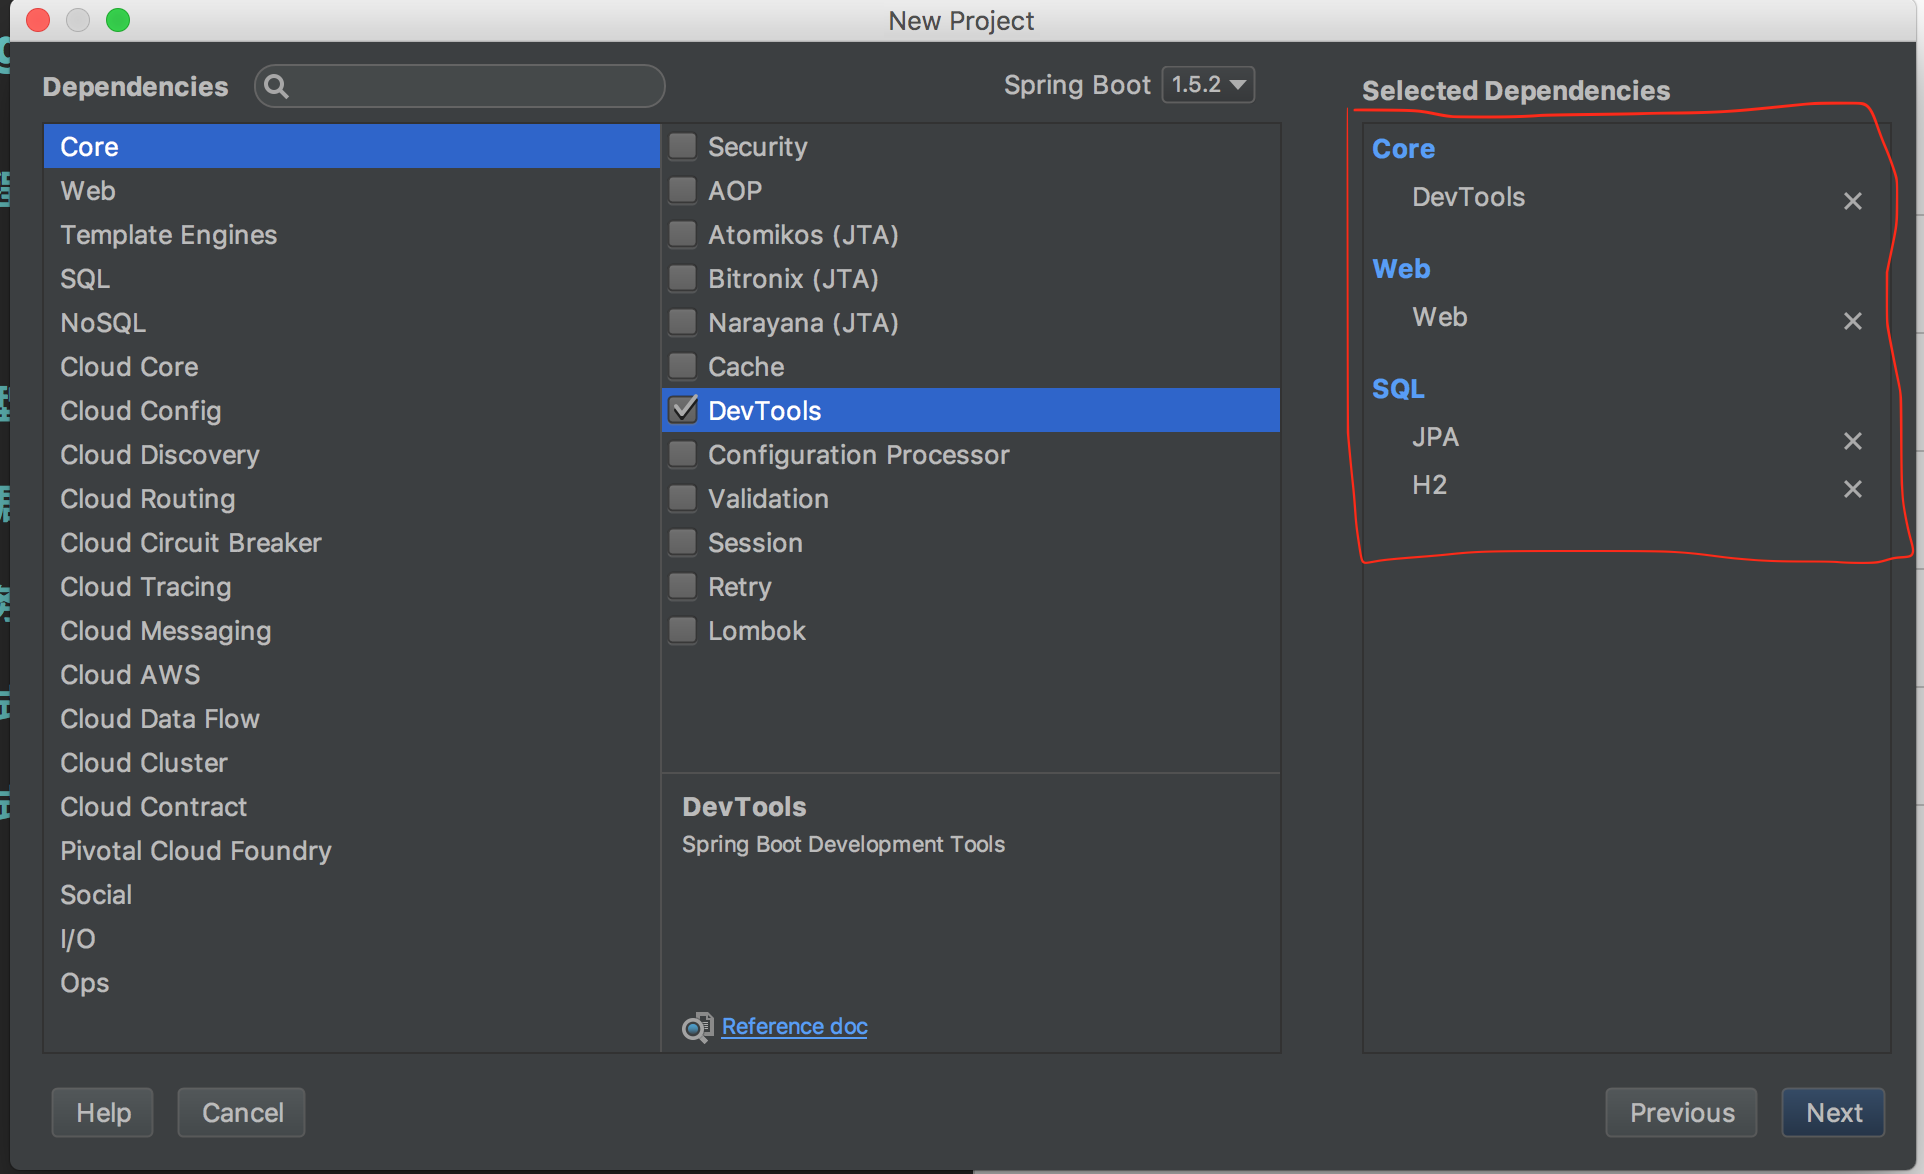
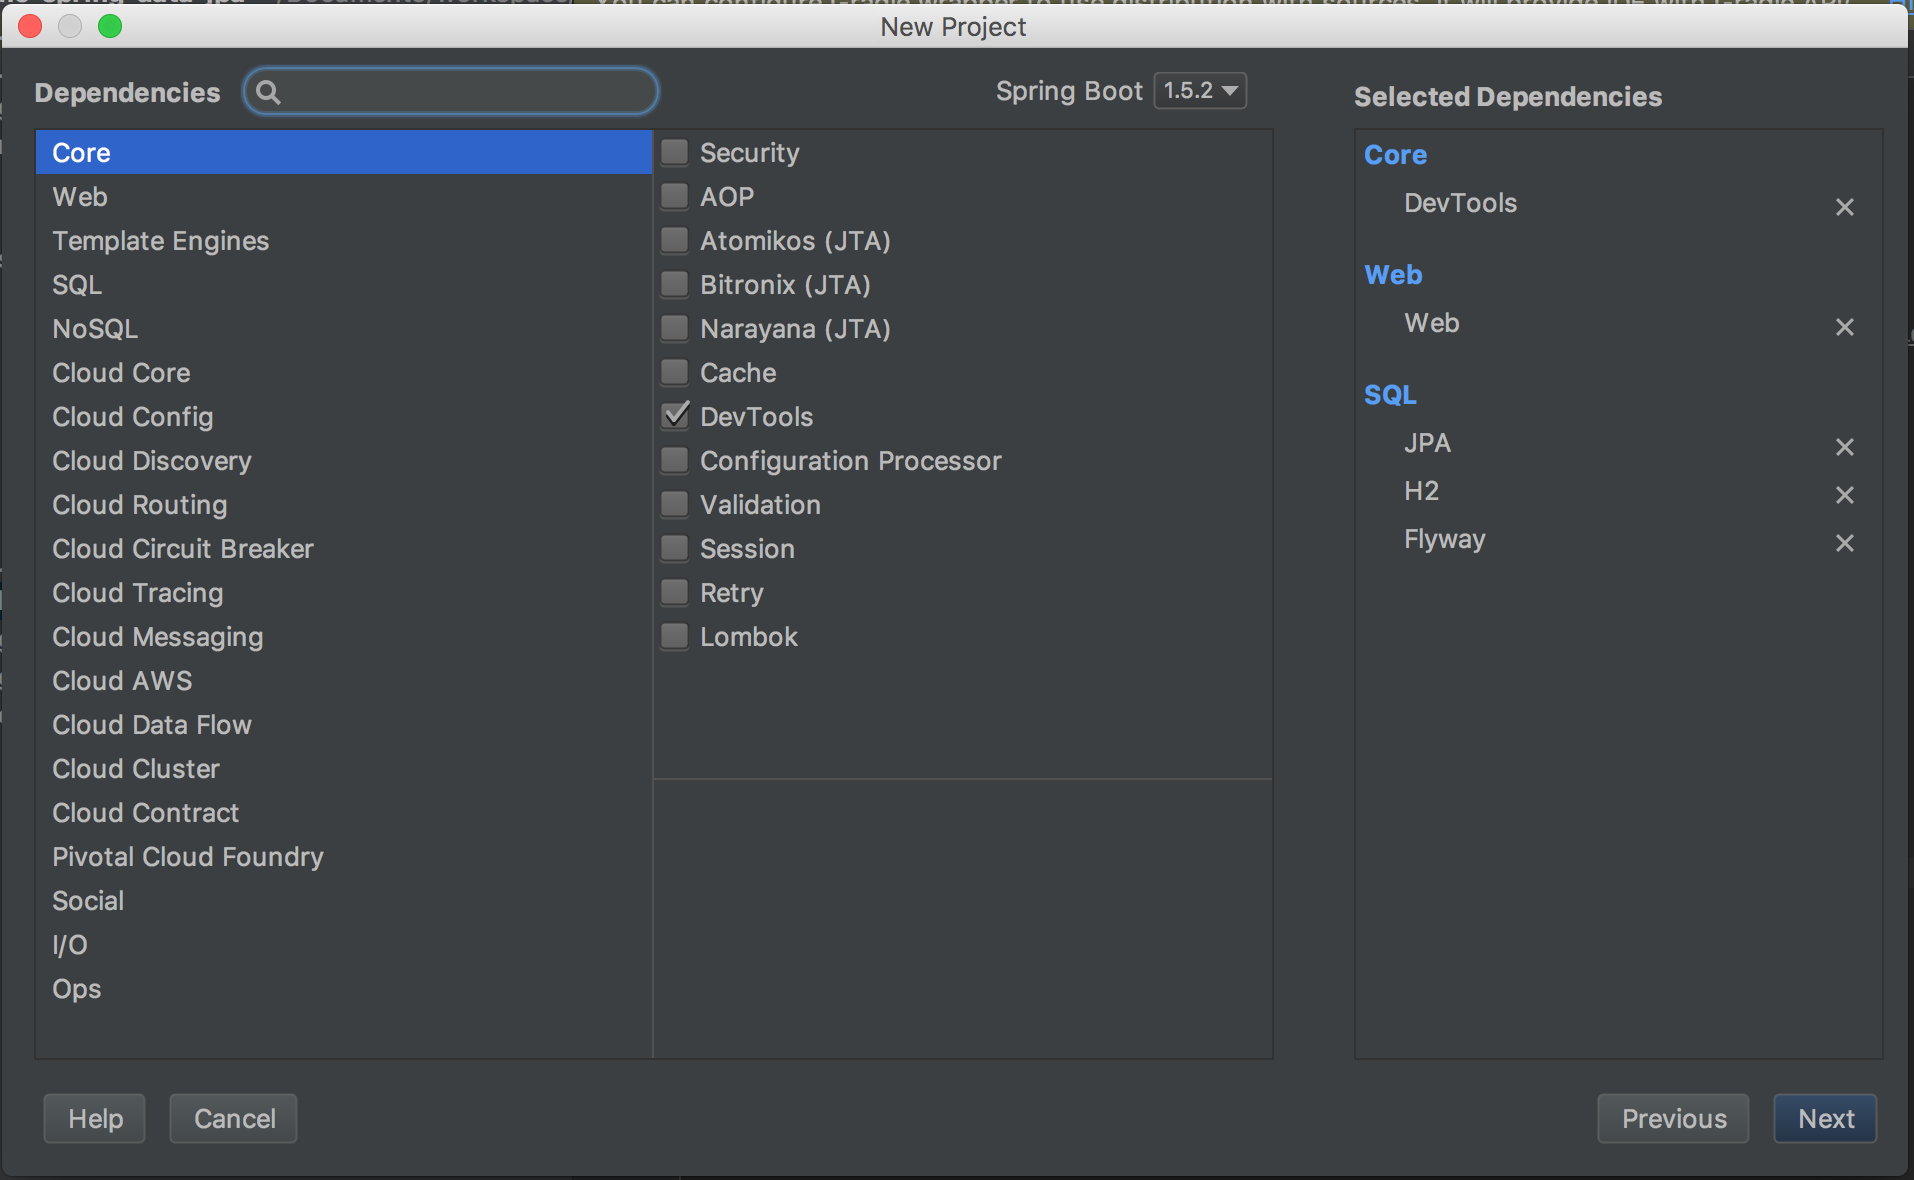
modify readme

diff --git a/readme/README.md b/readme/README.md
@@ -14,7 +14,7 @@
 
 ![create-6](img/create-6.png)
 
-* 选择DevTools，Web，JPA，H2:
+* 选择DevTools, Web, JPA, H2, flyway:
 ![create-3](img/create-3.png)
 
 ![create-7](img/create-7.png)
